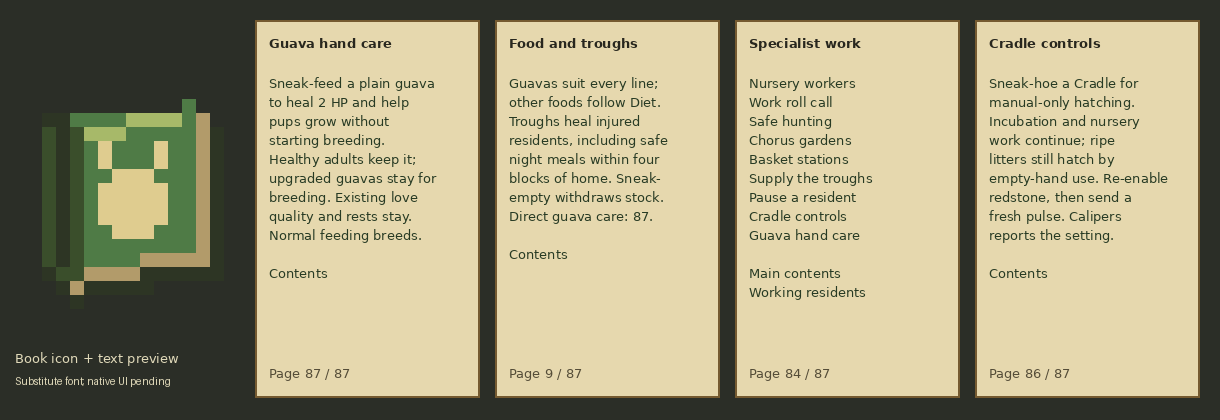
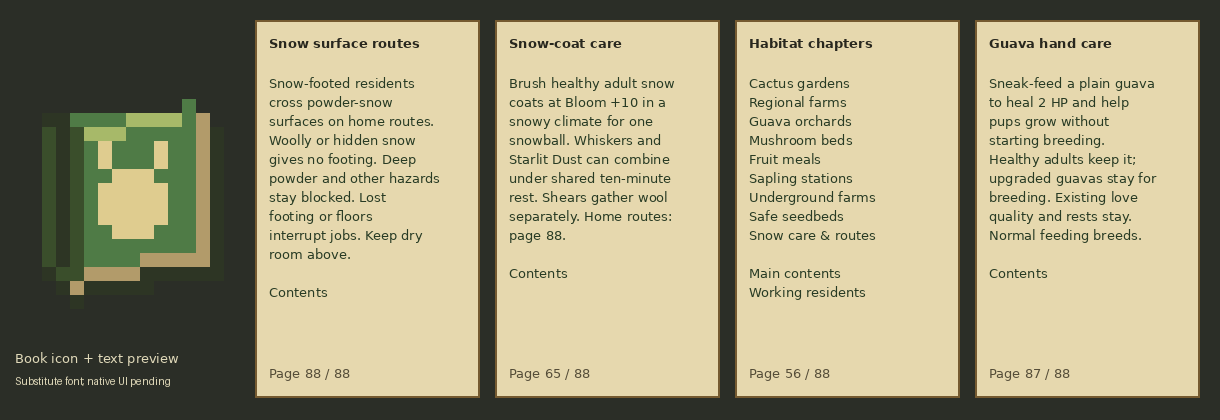
Let snow-footed residents use safe powder-snow surface routes

diff --git a/tools/gametest/java/com/bunnidogs/mod/entity/SnowRoutesGameTest.java b/tools/gametest/java/com/bunnidogs/mod/entity/SnowRoutesGameTest.java
@@ -1,0 +1,60 @@
+package com.bunnidogs.mod.entity;
+
+import com.bunnidogs.mod.block.FeedingTroughBlockEntity;
+import com.bunnidogs.mod.genetics.Foraging;
+import com.bunnidogs.mod.genetics.Gene;
+import com.bunnidogs.mod.genetics.Genome;
+import com.bunnidogs.mod.registry.ModBlocks;
+import com.bunnidogs.mod.registry.ModEntities;
+import com.bunnidogs.mod.registry.ModItems;
+import net.minecraft.core.BlockPos;
+import net.minecraft.gametest.framework.GameTestHelper;
+import net.minecraft.world.item.ItemStack;
+import net.minecraft.world.level.block.Blocks;
+import net.minecraft.world.level.block.PowderSnowBlock;
+import net.minecraft.world.level.pathfinder.PathType;
+import net.minecraft.world.phys.Vec3;
+
+/** A real native route crosses a snow-surface-only corridor while changed hazards/footing still veto it. */
+public final class SnowRoutesGameTest {
+    private SnowRoutesGameTest() {}
+    public static void run(GameTestHelper h) {
+        var level = h.getLevel();
+        for (int x = 0; x < 8; x++) for (int z = 0; z < 8; z++) {
+            h.setBlock(x,0,z,Blocks.STONE);
+            for (int y = 1; y < 5; y++) h.setBlock(x,y,z,x == 0 || x == 7 || z == 0 || z == 7 ? Blocks.STONE : Blocks.AIR);
+        }
+        for (int x = 2; x <= 6; x++) for (int y = 1; y <= 3; y++) { h.setBlock(x,y,2,Blocks.STONE); h.setBlock(x,y,4,Blocks.STONE); }
+        h.setBlock(1,1,1,ModBlocks.NEST.get()); h.setBlock(6,1,3,ModBlocks.FEEDING_TROUGH.get());
+        h.setBlock(3,0,3,Blocks.POWDER_SNOW); h.setBlock(4,0,3,Blocks.POWDER_SNOW);
+        var snowFloor = h.absolutePos(new BlockPos(3,0,3)); var snowStand = snowFloor.above(); var stock = (FeedingTroughBlockEntity)level.getBlockEntity(h.absolutePos(new BlockPos(6,1,3)));
+        stock.insert(new ItemStack(ModItems.GUAVA.get(),2));
+        var dog = h.spawnWithNoFreeWill(ModEntities.BUNNIDOG.get(),1.5F,1,3.5F); dog.setAge(0);
+        int snow = Gene.COAT.alleleNamed("snow").id(); var genome = Genome.DEFAULT.with(Gene.COAT,0,snow).with(Gene.COAT,1,snow); dog.setGenome(genome); dog.setHealth(dog.getMaxHealth()-4);
+        h.runAfterDelay(2,() -> {
+            var clock = level.dimensionType().defaultClock().orElseThrow(); long time = level.clockManager().getTotalTicks(clock);
+            try {
+                level.clockManager().setTotalTicks(clock,1000);
+                h.assertTrue(dog.moveHomeTo(level,h.absolutePos(new BlockPos(1,1,1))) == NestHome.MoveResult.MOVED,"Snow routes need a real accessible claimed Nest");
+                h.assertTrue(PowderSnowBlock.canEntityWalkOnPowderSnow(dog) && HomeRoutes.standing(dog,snowStand) && HomeRoutes.dryCell(dog,snowStand),"Expressed snow gives native surface footing and a supported dry work place");
+                var meal = new TroughGoal(dog); h.assertTrue(meal.canUse(),"A native complete route must reach food across the powder-only corridor"); meal.start(); var route = dog.getNavigation().getPath();
+                boolean crossed = false; for (int i = 0; i < route.getNodeCount(); i++) if (route.getNode(i).type == PathType.ON_TOP_OF_POWDER_SNOW) crossed = true;
+                h.assertTrue(crossed && HomeRoutes.safe(dog,route,null),"The native path must actually use top-of-powder nodes rather than a hidden detour");
+                dog.setGenome(genome.with(Gene.COAT,1,Gene.COAT.alleleNamed("spotted").id()));
+                h.assertTrue(!HomeRoutes.standing(dog,snowStand) && !HomeRoutes.safe(dog,route,null) && !meal.canContinueToUse(),"Losing expressed footing immediately cancels a cached snow route"); meal.stop();
+                int woolly = Gene.BUILD.alleleNamed("woolly").id(); dog.setGenome(Genome.DEFAULT.with(Gene.BUILD,0,woolly).with(Gene.BUILD,1,woolly));
+                h.assertTrue(!dog.canFreeze() && !PowderSnowBlock.canEntityWalkOnPowderSnow(dog) && !HomeRoutes.standing(dog,snowStand) && !new TroughGoal(dog).canUse(),"Cold protection alone never authorizes a sinking woolly route");
+                dog.setGenome(genome); dog.setHealth(dog.getMaxHealth()-4);
+                h.assertTrue(!HomeRoutes.dryCell(dog,snowFloor),"Inside powder stays unsafe even for snow coats");
+                level.setBlock(snowFloor,Blocks.MAGMA_BLOCK.defaultBlockState(),3); h.assertTrue(!HomeRoutes.safe(dog,route,null),"A newly damaging floor still invalidates the cached surface route"); level.setBlock(snowFloor,Blocks.POWDER_SNOW.defaultBlockState(),3);
+                var fire = snowStand.north(); level.setBlock(fire,Blocks.FIRE.defaultBlockState(),3);
+                h.assertTrue(!HomeRoutes.dryCell(dog,snowStand) && !HomeRoutes.standing(dog,snowStand) && !HomeRoutes.safe(dog,route,null),"Native neighbor fire checks must also protect top-of-powder routes"); level.setBlock(fire,Blocks.STONE.defaultBlockState(),3);
+                level.setBlock(snowFloor,Blocks.AIR.defaultBlockState(),3); h.assertTrue(!HomeRoutes.safe(dog,route,null),"Losing the supporting snow floor must invalidate a cached top node"); level.setBlock(snowFloor,Blocks.POWDER_SNOW.defaultBlockState(),3);
+                dog.setShiftKeyDown(true); h.assertTrue(!HomeRoutes.standing(dog,snowStand) && !HomeRoutes.safe(dog,route,null),"Native descending deliberately gives up surface footing"); dog.setShiftKeyDown(false);
+                var retry = new TroughGoal(dog); h.assertTrue(retry.canUse(),"Restoring the real footing and safe surface permits a fresh route"); retry.start(); dog.setPos(Vec3.atBottomCenterOf(h.absolutePos(new BlockPos(5,1,3))));
+                float health = dog.getHealth(); for (int i = 0; i < Foraging.GRAZE_TICKS; i++) retry.tick(); retry.stop();
+                h.assertTrue(stock.food().getCount() == 1 && dog.getHealth() == health+Foraging.HEAL && dog.forageWait() == Foraging.MEAL_COOLDOWN,"The snow route must reach one real normal meal without changing cost/healing/rest"); h.succeed();
+            } finally { level.clockManager().setTotalTicks(clock,time); }
+        });
+    }
+}

diff --git a/art/gen_guide.py b/art/gen_guide.py
@@ -65,7 +65,7 @@ PAGES = {
     62: ('Sapling stations', 'Dispensers plant guava saplings into air over valid soil. Blocked targets keep stock. Grass, podzol and mycelium work. Bone meal tries growth. Lost soil drops one sapling. Give the whole tree loaded space.'),
     63: ('Underground farms', 'New five-tree cave and Nether warrens may fit a regional farm: glow berries under a trellis, or wart on soul sand. Plots need no water. A clear corner may fit an empty enabled trough. Existing settlements keep their plans.'),
     64: ('Safe seedbeds', 'Plant litter seeds on farmland. If soil changes to dirt, grass, podzol or mycelium, the crop keeps its whole litter and continues growing. Lost support returns the saved seed. Changing soil never hatches it or resets its parents.'),
-    65: ('Snow-coat care', 'Brush healthy adult snow coats at Bloom +10 in a climate cold enough for snow to gather one snowball. Hidden snow gives none. Whiskers and Starlit Dust can combine. Hand and dispenser brushes share ten-minute rest. Shears gather wool separately.'),
+    65: ('Snow-coat care', 'Brush healthy adult snow coats at Bloom +10 in a snowy climate for one snowball. Whiskers and Starlit Dust can combine under shared ten-minute rest. Shears gather wool separately. Home routes: page 88.'),
     67: ('Loose food meals', 'Injured adults eat ordinary loose food near home by day after ten seconds. Diet, pickup delays and owner reservations apply. Upgraded guavas stay. One item heals 2 HP; food rest is thirty seconds. Keep a dry clear route.'),
     68: ('Trough gathering', 'Healthy adults at Senses +10 move one old loose matching food into a nearby hoe-enabled trough by day. Diet, filters, power and safe routes apply. Collection shares the one-minute garden rest. Loose meals: page 67.'),
     69: ('Melon beds', 'Healthy foragers and omnivores harvest a slice beside a living attached melon stem, near an enabled trough. The stem regrows fruit; decorative melons stay. Slices heal or grow matching lines. Stems: 70. Farms: 78.'),
@@ -86,15 +86,16 @@ PAGES = {
     85: ('Pause a resident', 'Sneak-use a hoe on a resident to pause or resume chores, with no wear. Meals, breeding and home routines continue. Pups can keep the preference. Calipers shows the pause; Travel Baskets preserve it.'),
     86: ('Cradle controls', 'Sneak-hoe a Cradle for manual-only hatching. Incubation and nursery work continue; ripe litters still hatch by empty-hand use. Re-enable redstone, then send a fresh pulse. Calipers reports the setting.'),
     87: ('Guava hand care', 'Sneak-feed a plain guava to heal 2 HP and help pups grow without starting breeding. Healthy adults keep it; upgraded guavas stay for breeding. Existing love quality and rests stay. Normal feeding breeds.'),
+    88: ('Snow surface routes', 'Snow-footed residents cross powder-snow surfaces on home routes. Woolly or hidden snow gives no footing. Deep powder and other hazards stay blocked. Lost footing or floors interrupt jobs. Keep dry room above.'),
 }
-PAGE_COUNT = 87
+PAGE_COUNT = 88
 MAIN_INDEX = {2:'Warrens & scouts',4:'Breeding & seeds',8:'Homes & food',11:'Care & traits',15:'Lab & splicing',
               17:'Registry & shows',19:'Material drops',20:'Apex of the Line'}
 MORE_INDEX = {24:'Guava juice',25:'Gardens & stores',27:'Boss forecast',28:'Living harvests',29:'Terrain & fishing',
               31:'Resident needs',32:'Refuge & storms',34:'Troughs & bell calls',36:'Fleece & dispensers',39:'Travel Basket'}
 NEW_INDEX = {41:'Nursery & compost',44:'Treat a litter',45:'Nest guards',46:'Warren maps',47:'Mineral scouts',49:'Pause trough work',51:'Find a tagged animal',52:'Bell roll call',53:'Recovery rest',54:'Plan a litter'}
 
-HABITAT_INDEX = {57:'Cactus gardens',58:'Regional farms',59:'Guava orchards',60:'Mushroom beds',61:'Fruit meals',62:'Sapling stations',63:'Underground farms',64:'Safe seedbeds',65:'Snow-coat care'}
+HABITAT_INDEX = {57:'Cactus gardens',58:'Regional farms',59:'Guava orchards',60:'Mushroom beds',61:'Fruit meals',62:'Sapling stations',63:'Underground farms',64:'Safe seedbeds',65:'Snow care & routes'}
 WORK_INDEX = {67:'Loose food meals',68:'Trough gathering',69:'Melon beds',71:'Orchard pickers',72:'Habitat meals',73:'Nest signals',75:'Work modes',76:'Restore a garden',84:'Specialist work'}
 SPECIALIST_INDEX = {77:'Nursery workers',79:'Work roll call',80:'Safe hunting',81:'Chorus gardens',82:'Basket stations',83:'Supply the troughs',85:'Pause a resident',86:'Cradle controls',87:'Guava hand care'}
 
@@ -143,7 +144,7 @@ def main():
         bold = ImageFont.truetype('DejaVuSans-Bold.ttf',13)
     except OSError:
         font = bold = ImageFont.load_default()
-    for x,page in [(255,87),(495,9),(735,84),(975,86)]:
+    for x,page in [(255,88),(495,65),(735,56),(975,87)]:
         d.rectangle((x,20,x+224,397),fill=(230,216,174),outline=(117,90,48),width=2)
         title = 'Bunnidogs Guide' if page == 1 else 'More chapters' if page == 40 else 'New chapters' if page == 50 else 'Habitat chapters' if page == 56 else 'Working residents' if page == 66 else 'Specialist work' if page == 84 else PAGES[page][0]
         d.text((x+14,35),title,font=bold,fill=(40,39,30))

diff --git a/src/main/java/com/bunnidogs/mod/entity/HomeRoutes.java b/src/main/java/com/bunnidogs/mod/entity/HomeRoutes.java
@@ -6,6 +6,8 @@ import net.minecraft.core.BlockPos;
 import net.minecraft.core.Direction;
 import net.minecraft.world.entity.Mob;
 import net.minecraft.world.entity.Entity;
+import net.minecraft.world.level.block.Blocks;
+import net.minecraft.world.level.block.PowderSnowBlock;
 import net.minecraft.world.level.pathfinder.Path;
 import net.minecraft.world.level.pathfinder.PathType;
 import net.minecraft.world.level.pathfinder.PathfindingContext;
@@ -25,17 +27,27 @@ final class HomeRoutes {
         return pos != null && level.hasChunkAt(pos) && dog.foodWithinHome(pos)
                 && level.getBlockState(pos).isAir() && level.getBlockState(pos.above()).isAir()
                 && level.getFluidState(pos).isEmpty() && level.getFluidState(pos.above()).isEmpty()
-                && level.getBlockState(pos.below()).isFaceSturdy(level,pos.below(),Direction.UP) && dryCell(dog,pos);
+                && (level.getBlockState(pos.below()).isFaceSturdy(level,pos.below(),Direction.UP)
+                    || level.getBlockState(pos.below()).is(Blocks.POWDER_SNOW) && snowFooting(dog)) && dryCell(dog,pos);
     }
-    private static boolean dangerous(PathType type) {
+    private static boolean snowFooting(Bunnidog dog) { return !dog.isDescending() && PowderSnowBlock.canEntityWalkOnPowderSnow(dog); }
+    private static boolean dangerous(Bunnidog dog, PathType type) {
         return switch (type) {
-            case WATER, LAVA, FIRE, FIRE_IN_NEIGHBOR, DAMAGING, DAMAGE_CAUTIOUS, POWDER_SNOW, ON_TOP_OF_POWDER_SNOW -> true;
+            case WATER, LAVA, FIRE, FIRE_IN_NEIGHBOR, DAMAGING, DAMAGE_CAUTIOUS, POWDER_SNOW -> true;
+            case ON_TOP_OF_POWDER_SNOW -> !snowFooting(dog);
             default -> false;
         };
     }
+    private static boolean hazardous(Bunnidog dog, PathfindingContext context, BlockPos pos, PathType type) {
+        if (dangerous(dog,type)) return true;
+        // Native top-of-powder classification skips neighbors; retain the same fire/hazard veto as dry ground.
+        return type == PathType.ON_TOP_OF_POWDER_SNOW
+                && dangerous(dog,WalkNodeEvaluator.checkNeighbourBlocks(context,pos.getX(),pos.getY(),pos.getZ(),type));
+    }
     static boolean dryCell(Bunnidog dog, BlockPos pos) {
-        return dog.level().hasChunksAt(pos.offset(-1,-1,-1),pos.offset(1,1,1))
-                && !dangerous(WalkNodeEvaluator.getPathTypeStatic(dog,pos));
+        if (!dog.level().hasChunksAt(pos.offset(-1,-1,-1),pos.offset(1,1,1))) return false;
+        var context = new PathfindingContext(dog.level(),dog);
+        return !hazardous(dog,context,pos,WalkNodeEvaluator.getPathTypeStatic(context,pos.mutable()));
     }
     static boolean visible(Bunnidog dog, Entity mob) {
         BlockPos from = dog.blockPosition(), to = mob.blockPosition();
@@ -52,9 +64,10 @@ final class HomeRoutes {
             if (!dog.level().hasChunkAt(node.asBlockPos()) || !dog.foodWithinHome(node.asBlockPos())
                     || threat != null && node.asBlockPos().distSqr(threat.blockPosition()) < clearance) return false;
             var pos = node.asBlockPos();
-            if (dangerous(node.type) || !dog.level().hasChunksAt(pos.offset(-1,-1,-1),pos.offset(1,1,1))) return false;
+            if (dangerous(dog,node.type) || !dog.level().hasChunksAt(pos.offset(-1,-1,-1),pos.offset(1,1,1))) return false;
             var current = WalkNodeEvaluator.getPathTypeStatic(context,pos.mutable());
-            if (dangerous(current) || node.type == PathType.WALKABLE && current == PathType.OPEN) return false;
+            if (hazardous(dog,context,pos,current)
+                    || (node.type == PathType.WALKABLE || node.type == PathType.ON_TOP_OF_POWDER_SNOW) && current == PathType.OPEN) return false;
         }
         return true;
     }

diff --git a/tools/gametest/java/com/bunnidogs/mod/entity/GuavaGameTest.java b/tools/gametest/java/com/bunnidogs/mod/entity/GuavaGameTest.java
@@ -55,7 +55,7 @@ public final class GuavaGameTest extends GameTestInstance {
     @SubscribeEvent
     public static void registerTests(RegisterGameTestsEvent event) {
         var environment = event.registerEnvironment(id("guava_integration"), new TestEnvironmentDefinition.AllOf());
-        for (String name : new String[]{"boats", "signs", "transport", "rehoming", "wayfinding", "sampling", "adaptations", "fleece", "splicing", "registry", "table_planning", "table_automation", "show", "grooming", "cold_care", "settlement", "apex", "fixtures", "regional_farms", "orchard", "orchard_picking", "sapling_station", "gardening", "cactus_gardening", "mushroom_gardening", "melon_gardening", "fruit_foraging", "regional_meals", "loose_food", "food_gathering", "pantry", "fishing", "hunt_safety", "chorus_care", "refuge", "guarding", "scouting", "resident_finder", "storm_shelter", "recovery_rest", "trough_automation", "bell_calls", "trough_filters", "care_dispensers", "basket", "basket_dispenser", "basket_callbacks", "cultivation", "nest_markers", "nest_signals", "night_meals", "nursery", "seed_recovery", "cradle_storage", "cradle_hatching", "cradle_spawn_refusal", "crop_harvest", "composting", "work_modes", "work_pause", "hand_care", "cradle_controls", "work_census", "trough_supply", "supply_callbacks", "garden_restoration", "nursery_workers", "nursery_treatment"}) {
+        for (String name : new String[]{"boats", "signs", "transport", "rehoming", "wayfinding", "sampling", "adaptations", "snow_routes", "fleece", "splicing", "registry", "table_planning", "table_automation", "show", "grooming", "cold_care", "settlement", "apex", "fixtures", "regional_farms", "orchard", "orchard_picking", "sapling_station", "gardening", "cactus_gardening", "mushroom_gardening", "melon_gardening", "fruit_foraging", "regional_meals", "loose_food", "food_gathering", "pantry", "fishing", "hunt_safety", "chorus_care", "refuge", "guarding", "scouting", "resident_finder", "storm_shelter", "recovery_rest", "trough_automation", "bell_calls", "trough_filters", "care_dispensers", "basket", "basket_dispenser", "basket_callbacks", "cultivation", "nest_markers", "nest_signals", "night_meals", "nursery", "seed_recovery", "cradle_storage", "cradle_hatching", "cradle_spawn_refusal", "crop_harvest", "composting", "work_modes", "work_pause", "hand_care", "cradle_controls", "work_census", "trough_supply", "supply_callbacks", "garden_restoration", "nursery_workers", "nursery_treatment"}) {
             event.registerTest(id(name), new GuavaGameTest(name, new TestData<>(environment, id("empty"), name.equals("nest_signals") ? 180 : 100, 0, true)));
         }
     }
@@ -68,6 +68,7 @@ public final class GuavaGameTest extends GameTestInstance {
             case "wayfinding" -> com.bunnidogs.mod.worldgen.WayfindingGameTest.run(h);
             case "sampling" -> SamplingGameTest.run(h);
             case "adaptations" -> AdaptationsGameTest.run(h);
+            case "snow_routes" -> { SnowRoutesGameTest.run(h); return; }
             case "fleece" -> { FleeceGameTest.run(h); return; }
             case "splicing" -> SplicingGameTest.run(h);
             case "registry" -> RegistryGameTest.run(h);

diff --git a/src/main/java/com/bunnidogs/mod/item/FieldGuideItem.java b/src/main/java/com/bunnidogs/mod/item/FieldGuideItem.java
@@ -12,7 +12,7 @@ import net.minecraft.world.item.component.WrittenBookContent;
 
 /** Native book UI/packets, translated pages and local page links; no custom screen or payload. */
 public final class FieldGuideItem extends WrittenBookItem {
-    public static final int PAGE_COUNT = 87;
+    public static final int PAGE_COUNT = 88;
     private static final int MORE_CONTENTS = 40;
     private static final int NEW_CONTENTS = 50;
     private static final int HABITAT_CONTENTS = 56;
@@ -56,7 +56,7 @@ public final class FieldGuideItem extends WrittenBookItem {
                     .append(Component.literal("\n\n").withStyle(style -> style.withBold(false)))
                     .append(Component.translatable("guide.bunnidogs.page." + page + ".body").withStyle(style -> style.withBold(false)))
                     .append(Component.literal("\n\n").withStyle(style -> style.withBold(false)))
-                    .append(link("guide.bunnidogs.contents",page == 77 || page >= 79 ? SPECIALIST_CONTENTS : page > WORK_CONTENTS ? WORK_CONTENTS : page > HABITAT_CONTENTS ? HABITAT_CONTENTS
+                    .append(link("guide.bunnidogs.contents",page == 88 ? HABITAT_CONTENTS : page == 77 || page >= 79 ? SPECIALIST_CONTENTS : page > WORK_CONTENTS ? WORK_CONTENTS : page > HABITAT_CONTENTS ? HABITAT_CONTENTS
                             : page > MORE_CONTENTS ? NEW_CONTENTS : page < 24 ? 1 : MORE_CONTENTS));
             pages.add(Filterable.passThrough(text));
         }

diff --git a/src/main/java/com/bunnidogs/mod/genetics/Adaptations.java b/src/main/java/com/bunnidogs/mod/genetics/Adaptations.java
@@ -29,7 +29,7 @@ public final class Adaptations {
         if (gene == Gene.BUILD && allele.name().equals("woolly"))
             return "Does not freeze in powder snow. Healthy adults yield two wool in their expressed coat's palette with shears every ten minutes.";
         if (gene == Gene.COAT && allele.name().equals("snow"))
-            return "Does not freeze in powder snow; walks on its surface and can climb out. Falls still hurt. Brush healthy Bloom +10 adults in cold climates for one snowball, sharing ten-minute grooming rest.";
+            return "Does not freeze in powder snow; walks on its surface and can climb out. Home routines use supported powder surfaces, avoiding interiors and other hazards. Falls still hurt. Brush healthy Bloom +10 adults in cold climates for one snowball, sharing ten-minute grooming rest.";
         if (gene == Gene.COAT && allele.name().equals("moss")) return "Immune to poison, but not wither or other magic.";
         if (gene == Gene.COAT && allele.name().equals("sand")) return "Immune to cactus damage; other thorns still hurt.";
         if (gene == Gene.COAT && allele.name().equals("void")) return "Immune to levitation; shulker impacts and falls still hurt.";

diff --git a/START_HERE.md b/START_HERE.md
@@ -22,6 +22,14 @@ checkpoints/compaction and reserve only the capacity needed to deliver safely.
 
 ## Latest gameplay work — 2026-10-19
 
+- **A6, snow surface home routes:** animals with actual native powder-snow
+  footing can use its supported dry surface for domestic routes. Deep powder,
+  changed/lost footing or floor, magma and neighboring fire still stop jobs.
+  Woolly/hidden snow alone give no surface exception. Native costs/collision,
+  saves and equipment remain unchanged. Java 25 build/all 70 native cases
+  pass, including a real powder-only corridor path and meal. The 88-page
+  guide/six-index/fifty-five-link preview is inspected. See `docs/CARE_SPECS.md` A6.
+
 - **D11, plain-guava hand care:** sneak-feed plain guavas for ordinary two-HP
   healing/pup growth without starting breeding. Healthy adults and upgraded
   guavas keep food; existing love quality/time, rests and work preference stay.
@@ -354,7 +362,7 @@ storm shelter, fishing, terrain traits, local supplies, living dust and fitted
 farms are also complete. Their rules/evidence remain in the specifications
 listed below; do not redo them.
 
-The native Field Guide has 87 translated pages and fifty-five chapter links
+The native Field Guide has 88 translated pages and fifty-five chapter links
 across six linked contents pages.
 `art/gen_guide.py` owns text/icon/preview; `art/gen_pantries.py` owns eight
 lineage food tables and shares the guide pool. See `docs/FIELD_GUIDE.md`.
@@ -370,7 +378,7 @@ lineage food tables and shares the guide pool. See `docs/FIELD_GUIDE.md`.
 | Gene Splicer | One donor expressed copy, chosen gene, sample/Mutagen/tool cost, recipient recovery; breeding fixes pairs. `docs/SPLICER_SPECS.md` |
 | Registry and shows | Distinct stable bred lines, linked snapshots, balanced-stat bronze/silver/gold judging, per-animal awards, ribbons and Champion Line. `docs/REGISTRY_SPECS.md`, `docs/SHOW_SPECS.md` |
 | Care | Live samples, fleece palettes, whiskers/dust/moss/cold-climate frost, dispenser care, saved recoveries and sneak-Calipers home/food/care/work status. `docs/CARE_SPECS.md` C1–C10 |
-| Adaptations | Expressed fire/cold/fall/Poison/cactus/Levitation benefits, slate armor, heavy-build knockback resistance, self-lit glow, terrain movement and snow footing. `docs/CARE_SPECS.md` A1–A5 |
+| Adaptations | Expressed fire/cold/fall/Poison/cactus/Levitation benefits, slate armor, heavy-build knockback resistance, self-lit glow, terrain movement and snow footing. `docs/CARE_SPECS.md` A1–A6 |
 | Outdoor food | Home-bounded crop/grass/hay/fruit and sustainable habitat meals, old ordinary loose food, bounded dry hunting/shore fishing, spent-chorus care, reservations and callback-safe commits. `docs/FORAGING_SPECS.md` D6–D11 |
 | Homes/travel | Claimable Nests and comparator signals, day tether/night return, floor Nests, native leads/rides and led-adult reassignment. Travel Baskets preserve whole animals by hand/native dispenser; compasses mark places and resident homes. `docs/HOME_SPECS.md` H1–H10 |
 | Settlement life | Trough stock/automation/filters/power, Diet healing and short night meals; bell visits, regional and meadow-melon farms, local supplies, refuge/storm/rest/guards and read-only roll calls. Selected harvest/cultivation/compost/gather/garden-restoration/nursery/supply jobs share exact stock, safe routes and saved work rest. `docs/SETTLEMENT_LIFE.md` L1–L35, `docs/RESIDENT_WORK.md` |

diff --git a/docs/CARE_SPECS.md b/docs/CARE_SPECS.md
@@ -342,7 +342,8 @@ snow-walkable animals do. Woolly builds retain freezing protection without this
 footing; hidden snow copies gain neither coat benefit. The same per-animal
 native tag query enables Minecraft's powder-snow escape jump goal. Falling into
 snow, standing beneath its surface and descending retain native collision rules.
-This does not make falls safe or change the conservative domestic route checks.
+This does not make falls safe. A6 below extends domestic routes only to
+supported native-footing surfaces while retaining other hazard checks.
 
 Only the native snow-walkable query gains the expressed benefit; ordinary data
 pack entity tags and equipment protections still apply. Gene edits take effect
@@ -376,3 +377,29 @@ actual Brush use, exact yield/wear, preserved animal state, repeated-use refusal
 saved/missing recovery, last-charge breakage and creative use. The combined
 build/server suite passes; client input and long-term farm balance remain manual
 playtests. No large genetics rerun is needed for this isolated care rule.
+
+## A6: supported powder-snow home routes
+
+Residents with native powder-snow footing, normally an expressed snow coat,
+can use the top of powder snow for home routines, meals and work. A standing
+place still needs two empty dry body cells in the loaded home area; only its
+powder floor gains the native support exception. Woolly cold protection and
+hidden snow alone still give no footing. Native equipment/data-pack footing
+continues to count. Descending animals do not claim surface support.
+
+Interior POWDER_SNOW stays unsafe. Native ON_TOP_OF_POWDER_SNOW is accepted only
+while native footing is present, with an additional native neighbor-hazard
+check: the ordinary surface classification skips that check. Adjacent fire,
+damaging floors, water/lava, missing floor, other hazards and complete loaded
+home-route rules remain. A changed expressed trait/footing or removed floor
+invalidates an already cached route before the job commits. No movement
+costs, AI priorities, genome format, equipment or collision rules are changed.
+
+Java 25 build/all 70 native scenarios pass. The new route case claims a real
+home and creates a complete native meal path through a corridor requiring
+ON_TOP_OF_POWDER_SNOW nodes. It checks supported work cells, expressed-trait
+loss during that cached route, woolly-without-footing refusal, unsafe powder
+interiors, a newly damaging floor, neighboring fire, removed support and native
+descending. Restored footing/safety permits a real one-food/two-HP/normal-rest
+meal. Existing physics, collision, climate-care and all other route cases stay
+passing. Guide preview inspected; natural tundra navigation remains playtest review.

diff --git a/docs/API_NOTES.md b/docs/API_NOTES.md
@@ -28,6 +28,7 @@ Status words: **COMPILED** = the user's compile accepted it (names and types are
 ### Lookup table (need -> what works in this project -> status -> exact place)
 | Need | What works | Status | Where it was verified |
 |---|---|---|---|
+| Snow surface home routes A6 | Native ON_TOP_OF_POWDER_SNOW costs zero but static classification skips checkNeighbourBlocks. HomeRoutes permits only native PowderSnowBlock.canEntityWalkOnPowderSnow footing while not descending, supplies the surface support exception, and calls public WalkNodeEvaluator.checkNeighbourBlocks after loaded-bound guards. POWDER_SNOW interiors stay unsafe; cached top nodes also reject a newly OPEN floor. | Build/all 70 cases; actual native corridor/top nodes, changed trait/floors/fire/descending, normal meal | HomeRoutes, PowderSnowBlock/WalkNodeEvaluator resolved sources, SnowRoutesGameTest |
 | Plain-guava hand care D11 | Crouched ordinary GuavaItem care is handled before native Animal breeding. Reuse Foraging.handFood and native ageUp/getSpeedUpSecondsWhenFeeding; pay actual hand consume(1,player) before heal callbacks for both manual-food paths. Native Animal.isInLove()/getInLoveTime() are public. Keep existing custom LoveTier/LoveTierTicks untouched. | Build/all 69 cases; actual off-hand/creative care, ordinary breeding, preserved plans/rests and a native heal callback refilling the hand | Bunnidog, GuavaItem, HandCareGameTest |
 | Keeper controls L35/N10 | Optional WorkPaused on the animal gates its shared gardening status, including active callback rechecks. Optional ManualHatchOnly on the Cradle gates only its scheduled redstone tick; direct hatch() still uses ordinary pad checks. Extend the crouched RightClickBlock allowance only for hoes on Cradles, preserving canceled/UseBlock.FALSE and build permission. | Build/all 68 cases; actual off-hand/creative/Adventure/protection, native saves/basket, real meals and queued/fresh pulses | Bunnidog, Gardening, TroughInteraction, NurseryCradleBlock/Entity, WorkPauseGameTest, CradleControlsGameTest |
 | Resident supply L34 | One native Transaction.openRoot pairs the two existing trough automation journals. Stock mutations are staged before root commit notifications, so removal drops the actual post-transfer contents. Work captures both BE identities, exact food and home; recheck after the mob-griefing event, with no carried-item persistence. | Build/all 66 native cases; paired/destination-refused rollback, real work and both-container removal conservation | Supplying, TroughSupply, SupplyGoal, SupplyGameTest |

diff --git a/docs/FIELD_GUIDE.md b/docs/FIELD_GUIDE.md
@@ -58,7 +58,7 @@ containers are not refilled and player inventories are not edited. See
 
 ## Presentation and saves
 
-Eighty-seven pages use the ordinary written-book screen. Six linked contents pages
+Eighty-eight pages use the ordinary written-book screen. Six linked contents pages
 offer fifty-five clickable chapter links. Each chapter links back to its index. Local page changes
 are the only click action. All text is translatable through en_us.json. The
 book stacks to one and appears beside the Calipers in Tools & Utilities.
@@ -76,9 +76,9 @@ resource-pack fonts may differ. The source preview uses a substitute font.
 
 ## Evidence
 
-The actual Java 25 build and current sixty-nine native server cases pass,
-including loading the book/recipe/loot resources. The expanded 87-page
-guava-care/food/Specialist/Cradle-control preview is inspected with a substitute font; all
+The actual Java 25 build and current seventy native server cases pass,
+including loading the book/recipe/loot resources. The expanded 88-page
+snow-route/snow-care/Habitat/guava-care preview is inspected with a substitute font; all
 three indices were also inspected for P4. Earlier
 pages were shortened using the conservative native text-area estimate.
 Native WrittenBookItem, ServerPlayer, ClientPacketListener and BookViewScreen
@@ -278,3 +278,8 @@ D11 appends **Guava hand care** (87), a ninth Specialist entry returning to 84.
 Food and troughs points to it; Breed a seed specifies normal feeding. Earlier
 numbers remain stable. There are 87 pages/six indices/fifty-five chapter links;
 care/food/Specialist/Cradle-control previews are inspected.
+
+A6 appends **Snow surface routes** (88), returning to Habitat. Snow-coat care
+points to it; its Habitat label is now **Snow care & routes**. There are 88
+pages/six indices/fifty-five chapter links. Snow route/care/Habitat/guava-care
+previews are inspected; actual client fonts and natural snow travel need playtesting.

diff --git a/README.md b/README.md
@@ -4,7 +4,7 @@ A NeoForge mod for Minecraft 26.2: a baby-faced creature with rabbit ears and a
 dog's body, plus breeding, genetics, guavas, warrens, homes and pedigree tools.
 Requires JDK 25. Client and server must both use the updated mod (network 7). The checked-in Gradle wrapper selects the project Gradle version.
 
-Craft a vanilla book with any guava for the **87-page Field Guide**, with six
+Craft a vanilla book with any guava for the **88-page Field Guide**, with six
 linked contents pages covering its chapters. Sneak-use
 Calipers for care/work readiness, use a hoe on a Feeding Trough to enable
 resident gardening, and explore food stores for supplies suited to each lineage.
@@ -71,6 +71,7 @@ Sneak-use Calipers on a Cradle to inspect incubation and mark its hatch pad.
 New level-five grand-tree nurseries may fit an empty Cradle with a clear pad,
 while retaining their trough, bell and floor Nests.
 Snow coats walk on powder snow and use native escape jumps.
+Their home routines can cross supported powder surfaces while avoiding interiors and other hazards.
 Sneak-use a bone on a feral adult with a Nest to toggle bounded guarding;
 the command spends no bone. Calipers reports its enabled/paused status.
 Journeyman cartographers may sell native Warren Explorer Maps to Overworld settlements.

diff --git a/docs/FEATURES.md b/docs/FEATURES.md
@@ -1,7 +1,7 @@
 # Bunnidogs: how to use each feature in game
 
 **Field Guide (P1):** combine a vanilla book with any guava. Use the book to
-open 87 pages from first warren to Apex. Six linked contents pages offer fifty-five
+open 88 pages from first warren to Apex. Six linked contents pages offer fifty-five
 chapter links; Habitat chapters collect regional gardens.
 It can also appear in unopened warren pantry barrels (35% chance). Native book
 pages, rather than a separate custom screen, explain the progression in-game.
@@ -638,3 +638,9 @@ a fresh pulse to restore automatic hatching. Tools spend no durability.
 grow without breeding. Healthy adults and upgraded guavas keep food. Existing
 love quality/time and care/work/food rests are preserved. Normal feeding still
 starts breeding. The plain guava tooltip explains the gesture.
+
+**Snow routes (A6):** expressed snow coats can use supported powder-snow
+surfaces for home routines, meals and work. Woolly or hidden snow alone gives
+no footing. Powder interiors, missing floors and neighboring hazards stay
+unsafe; losing the trait interrupts existing snow routes. Native equipment
+and data-pack footing also apply.
